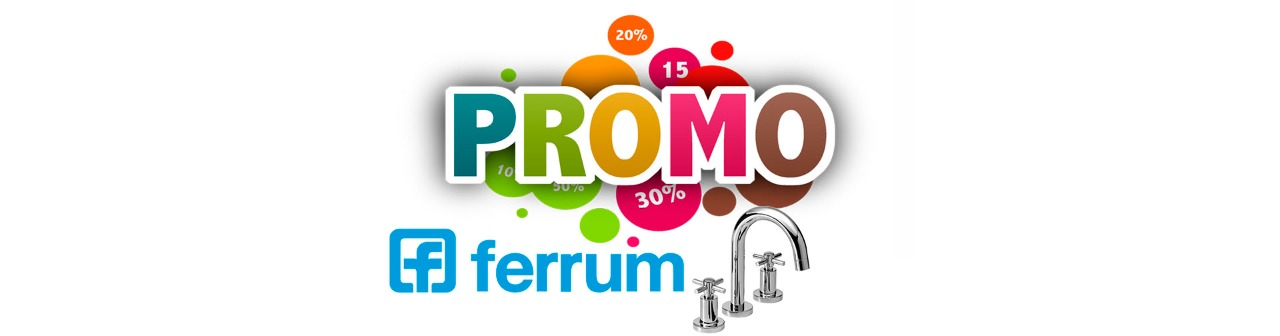
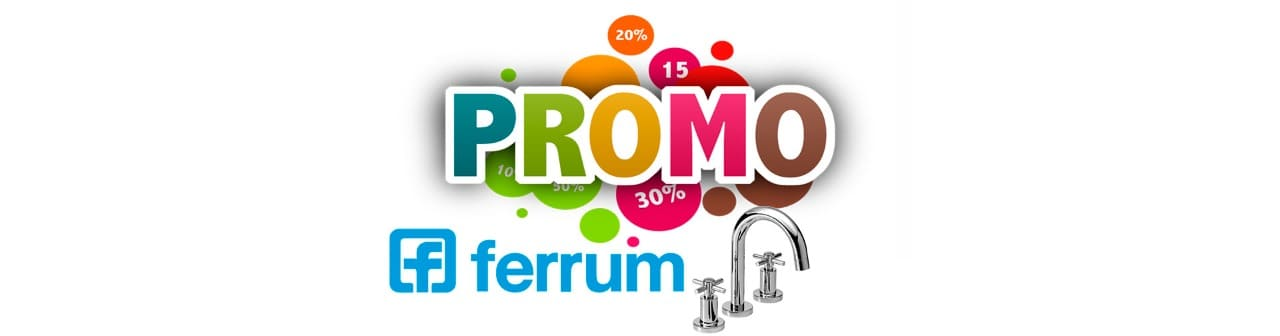
compresion img y cambios en formularios

Changed region(s): [[0.5, 0.5655, 0.5312, 0.625], [0.4688, 0.0893, 0.5, 0.119], [0.4375, 0.744, 0.4688, 0.7738]]

diff --git a/pages/cuenta.html b/pages/cuenta.html
@@ -63,7 +63,7 @@
         <main class="main">
             <h1 class="m-text__centered">MI CUENTA</h1>
             <img class="acc-img" src="../assets/img/pngegg.png" alt="acc">
-            <form action="" class="form-main">
+            <form action="action_page.php" method="post" class="form-main">
                     <input type="text" placeholder="Nombre de Usuario" class="acc-input">
                     <input type="password" placeholder="********" class="acc-input">
                     <button class="boton-dest b-acc"><a href="">INGRESAR</a></button>

diff --git a/pages/empresa.html b/pages/empresa.html
@@ -84,12 +84,12 @@
               <div class="div-footer">
                   <h2>FAQ</h2>
                   <a href="../pages/empresa.html">Dónde nos podés encontrar</a>
-            </div>
+              </div>
               <div class="div-footer">
                   <h2>Términos y privacidad</h2>
                   <p>El uso de esta página web se rige por las condiciones que usted aceptó al registrarse.</p>
               </div>
           </ul>
-      </footer>
+        </footer>
     </body>
 </html>

diff --git a/pages/contacto.html b/pages/contacto.html
@@ -65,7 +65,7 @@
                 <h1 class="m-text__centered">FORMULARIO DE CONTACTO</h1>
             </div>
             <div class="form-container">
-                <form action="#" class="form-main">
+                <form action="action_page.php" method="post" class="form-main">
                     <div>
                         <input type="text" class="form-holder" placeholder="Nombre y Apellido">
                     </div>
